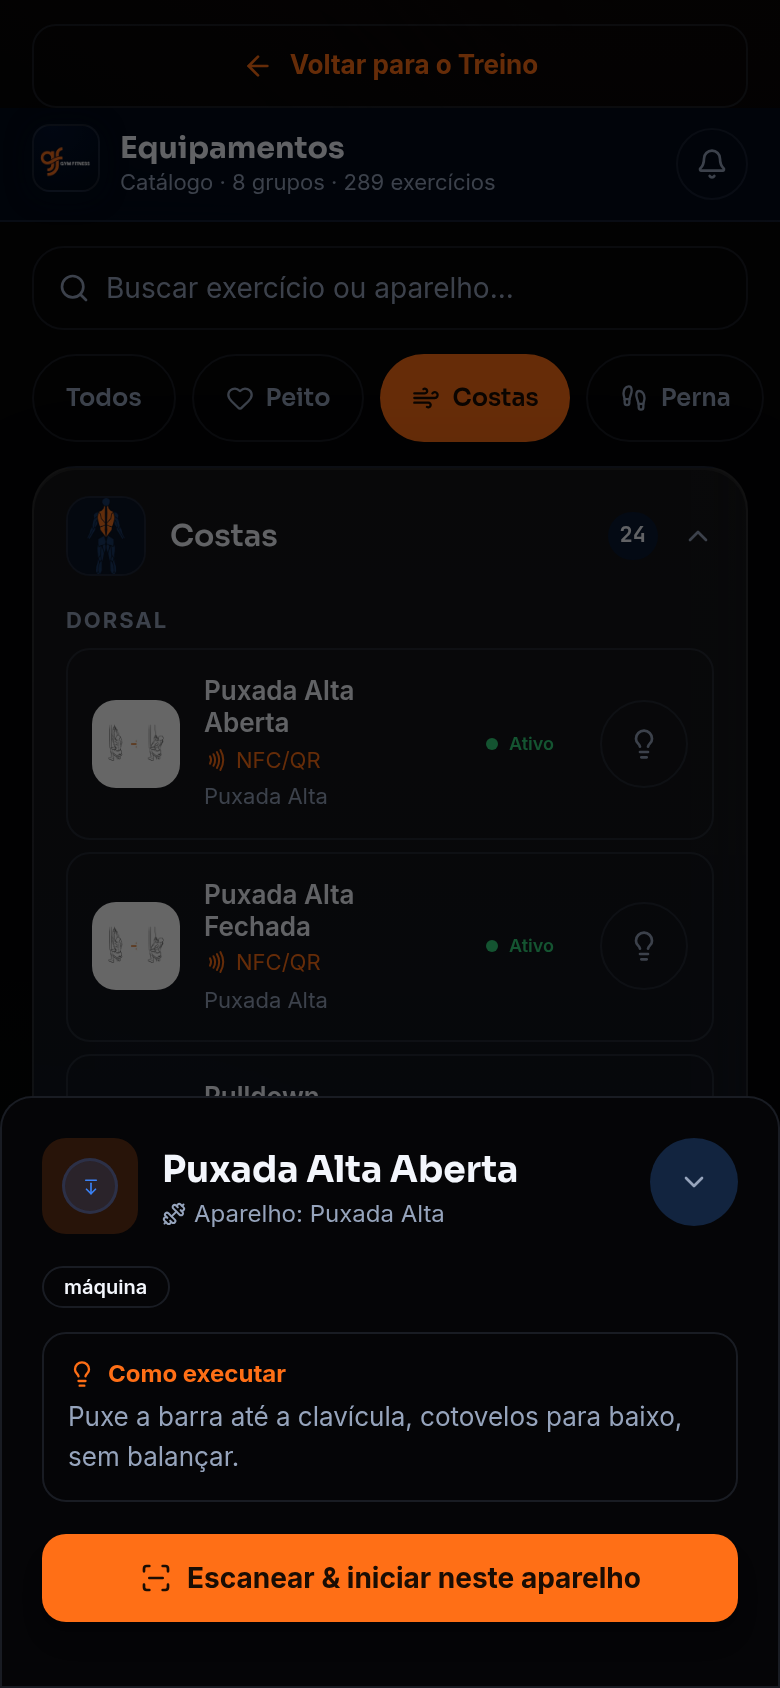
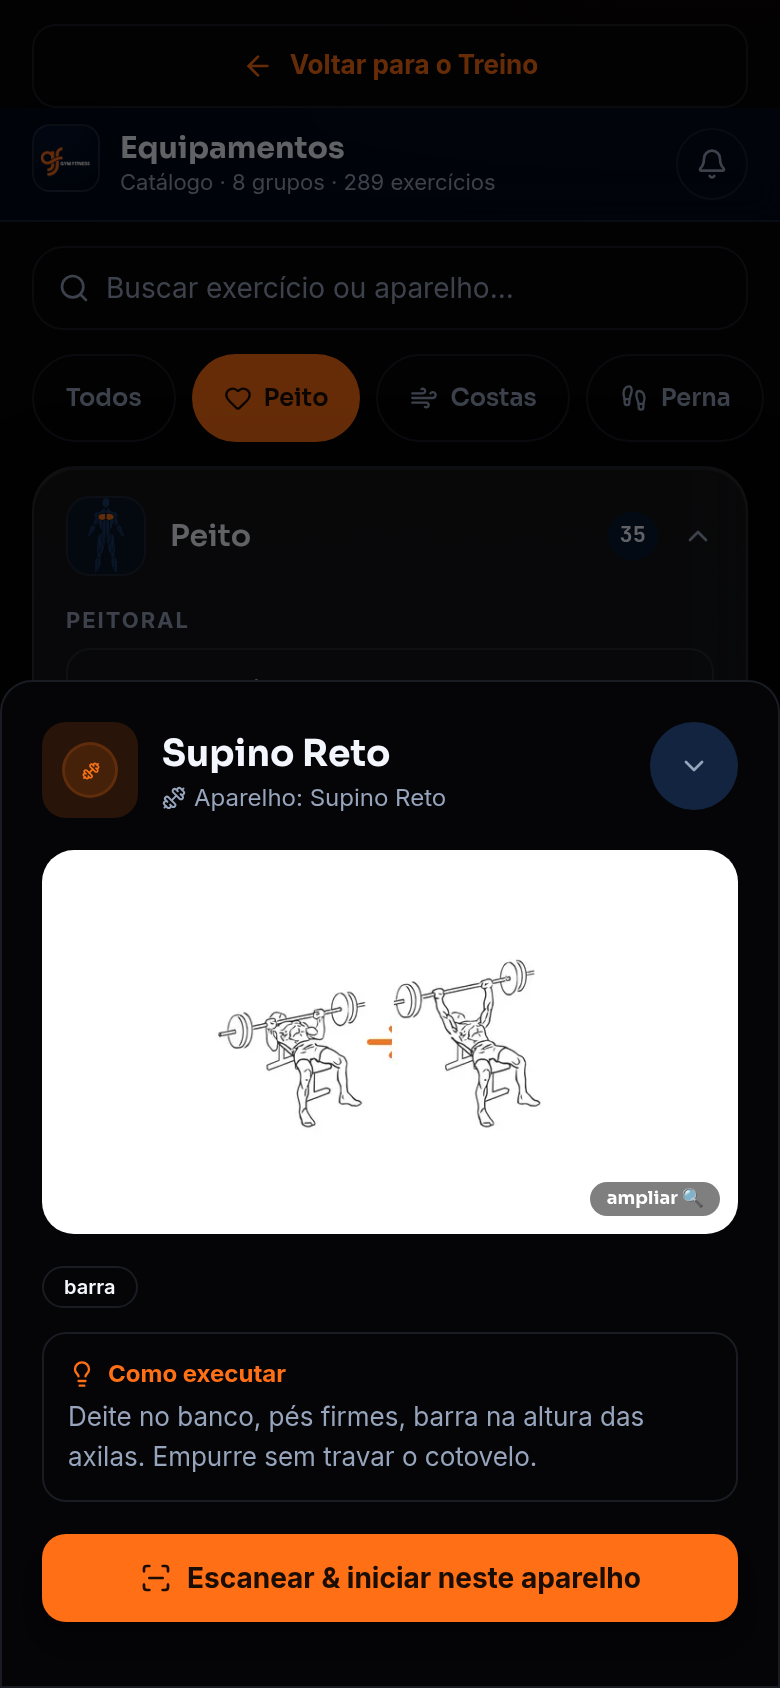
v35.1: ficha do catálogo com ilustração clicável (lightbox)

diff --git a/src/app/(app)/equipamento/page.tsx b/src/app/(app)/equipamento/page.tsx
@@ -398,6 +398,19 @@ function InfoSheet({ ex, onClose }: { ex: DemoExercise; onClose: () => void }) {
           </button>
         </div>
 
+        {/* ilustração do exercício, clicável pra ampliar */}
+        {ex.imageUrl ? (
+          <button
+            onClick={() => setZoom(true)}
+            aria-label={`Ampliar ilustração de ${ex.name}`}
+            className="gf-touch relative mt-4 block h-48 w-full cursor-zoom-in overflow-hidden rounded-2xl border border-white/[0.06] bg-white"
+          >
+            {/* eslint-disable-next-line @next/next/no-img-element */}
+            <img src={ex.imageUrl} alt={`Execução de ${ex.name}`} loading="lazy" decoding="async" className="h-full w-full object-contain" />
+            <span className="absolute bottom-2 right-2 rounded-full bg-black/50 px-2 py-0.5 text-[9px] font-bold text-white">ampliar 🔍</span>
+          </button>
+        ) : null}
+
         <div className="mt-4 flex flex-wrap gap-1.5">
           {ex.tags.map((t) => (
             <Badge key={t} variant="outline" className="text-[10px]">{t}</Badge>
